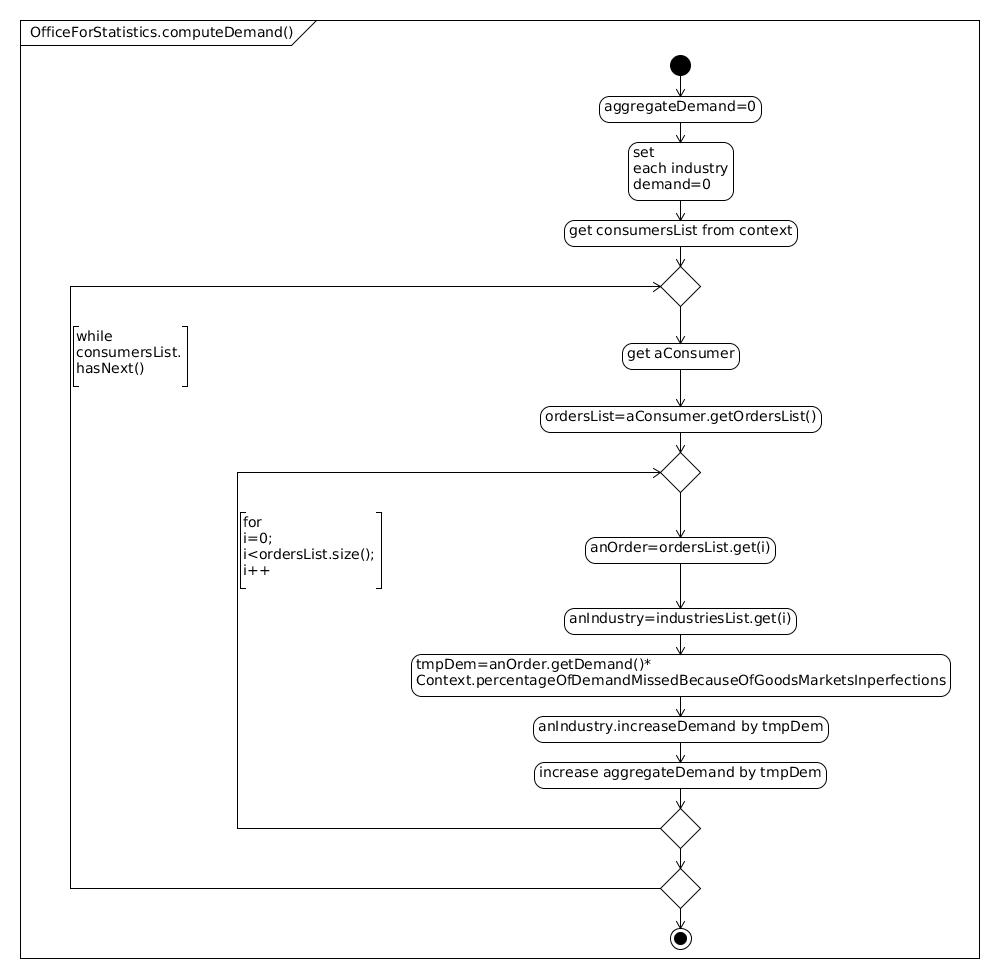
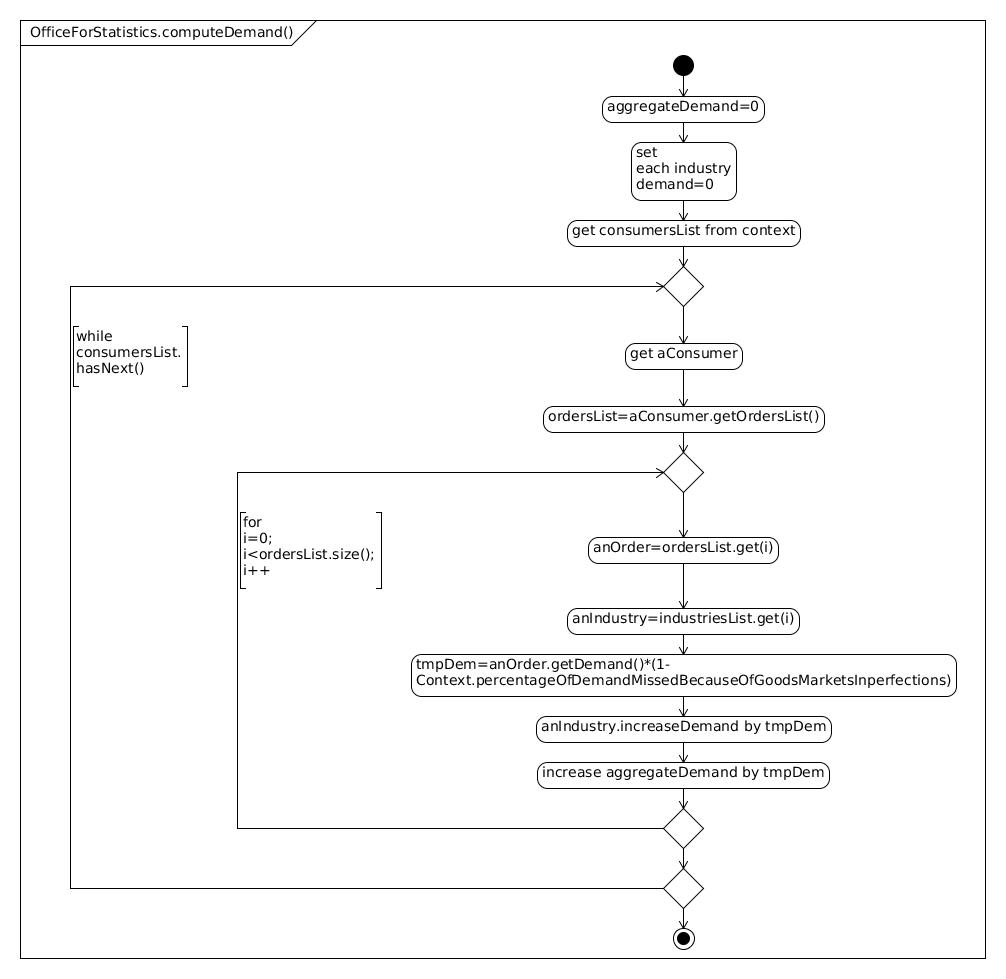
aggiunto metodo Consume.updateBankAccountAccordingToEffectiveConsumption

diff --git a/documentation/index.html b/documentation/index.html
@@ -77,9 +77,14 @@
 	<td>Compute the <b>effective demand</b> for each type of product (the industry desired demand) and the aggregate desired demand</td>
 </tr>
 <tr>
-	<td></td> 
-	<td><a href="allocateDemand.html">allocateDemand</a></td>
-	<td>Each industry allocates <b>effective demand</b> to firms. Firms will use this figure to compute the economic result.</td>
+	<td> </td>
+	<td><a href="allocateDemand.html">allocateDemand</a> </td>
+	<td>Each industry allocates <b>effective demand</b> to firms. Firms will use this figure to set production inputs for the next period. </td>
+</tr>
+<tr>
+	<td><b>Consumers</b></td> 
+	<td><a href="updateBankAccountAccordingToEffectiveConsumption.html">updateBankAccountAccordingToEffectiveConsumption</a></td>
+	<td>Each consumers withraw what needed or deposits what saved.</td>
 </tr>
 <tr>
 	<td><b>Firms</b> </td>

diff --git a/src/sfcabm/Consumer.java b/src/sfcabm/Consumer.java
@@ -54,7 +54,7 @@ public class Consumer {
 	 boolean InvestEducation;
 	 double studentSpending;
 
-	 double consumption,desiredDemand;
+	 double consumption,desiredDemand,financialResourcesInBankAccounts;
 	 
 	repast.simphony.context.Context<Object> myContext;
 	IndexedIterable<Object> firmsList,banksList;
@@ -198,7 +198,7 @@ public void stepState(){
 	public void payBackBankDebt(){
 		double amountOfThisBankAccount,resourcesAvailableToRefund;
 		double totalAmountToRefund=0;
-		double financialResourcesInBankAccounts=0;
+		financialResourcesInBankAccounts=0;
 		for(int i=0;i<bankAccountsList.size();i++){
 			aBankAccount=(BankAccount)bankAccountsList.get(i);
 			amountOfThisBankAccount=aBankAccount.getAccount();
@@ -298,7 +298,7 @@ public void stepState(){
 	
 	private void stepWorkerConsumption() {
 		double preferenceParameter=RandomHelper.nextDoubleFromTo(0.5,1.5);
-		double financialResourcesInBankAccounts=0;
+		financialResourcesInBankAccounts=0;
 		double amountOfThisBankAccount,amountOfBestBankAccount,amountOfWorstBankAccount;
 		int positionOfBestAccount,positionOfWorstAccount;
 		demandsList = new ArrayList<AProductDemand>();
@@ -405,7 +405,7 @@ public void stepWorkerState() {
 	private void stepStudentConsumption() {
 
 		double preferenceParameter=RandomHelper.nextDoubleFromTo(0.5,1.5);
-		double financialResourcesInBankAccounts=0;
+		financialResourcesInBankAccounts=0;
 		double amountOfThisBankAccount,amountOfBestBankAccount,amountOfWorstBankAccount;
 		int positionOfBestAccount,positionOfWorstAccount;
 		demandsList = new ArrayList<AProductDemand>();
@@ -546,6 +546,44 @@ public void stepWorkerState() {
 				aProductDemand.adjustDemand(identity,allowedDemand/desiredDemand);
 			}
 		}
+
+		public void updateBankAccountAccordingToEffectiveConsumption(){
+			consumption=0;
+			for(int j=0;j<demandsList.size();j++){
+				aProductDemand=demandsList.get(j);
+				consumption+=aProductDemand.getDemand();
+			}
+
+					System.out.println("      consumption "+consumption+" disposableIncome "+disposableIncome);
+			if(disposableIncome>=consumption){
+				worstBankAccount.receiveDeposits(disposableIncome-consumption);
+			}
+			else{
+				consumption+=-disposableIncome;
+				for(int i=0;i<bankAccountsList.size();i++){
+					aBankAccount=(BankAccount)bankAccountsList.get(i);
+					double tmpAccount=aBankAccount.getAccount();
+					if(tmpAccount>=0){
+						if(tmpAccount<consumption){
+							consumption+=-tmpAccount;
+							aBankAccount.setAccount(0);
+						}
+						else{
+							aBankAccount.setAccount(tmpAccount-consumption);
+							consumption=0;
+						}
+					}
+				}
+				if(consumption>0){
+					System.out.println("      consumption "+consumption+" allowedCredit "+bestBankAccount.getAllowedCredit());
+					bestBankAccount.setAccount(bestBankAccount.getAllowedCredit());
+				}
+			}
+
+		}
+
+
+
 
 		public void adjustConsumtionToMatchDemandAndSupply(int rankPosition, double multiplier){
 			aProductDemand=demandsList.get(rankPosition);

diff --git a/src/sfcabm/OfficeForStatistics.java b/src/sfcabm/OfficeForStatistics.java
@@ -77,6 +77,22 @@ public class OfficeForStatistics{
 		catch(ClassNotFoundException e){
 			System.out.println("Class not found");
 		}
+//remove firms with 0 production
+
+		contextIterator=myContext.iterator();
+		while(contextIterator.hasNext()){
+			anObj=contextIterator.next();
+			if(anObj instanceof Firm){
+				aFirm=(Firm)anObj;
+				if(aFirm.getProduction()>0){
+				}
+				else{
+					System.out.println("     firm removed because producing "+aFirm.getProduction());
+					contextIterator.remove();
+				}
+			}
+		}
+
 //compute 1) aggregate production 2) number of firms in each industry and 3) production for each industry
 		aggregateProduction=0;
 		for(int i=0;i<firmsList.size();i++){
@@ -197,7 +213,7 @@ public class OfficeForStatistics{
 			for(int j=0;j<anOrderList.size();j++){
 				anOrder=(AProductDemand)anOrderList.get(j);
 				anIndustry=industriesList.get(j);
-				double tmpDemand=anOrder.getDemand()*Context.percentageOfDemandMissedBecauseOfGoodsMarketsInperfections;
+				double tmpDemand=anOrder.getDemand()*(1-Context.percentageOfDemandMissedBecauseOfGoodsMarketsInperfections);
 				anIndustry.increaseDemand(tmpDemand);
 				aggregateDemand=aggregateDemand+tmpDemand;
 			}
@@ -205,7 +221,7 @@ public class OfficeForStatistics{
 		}
 
 		if(Context.verboseFlag){
-			System.out.println("OFFICE FOR STATISTICS: COMPUTE DEMAND ");
+			System.out.println("OFFICE FOR STATISTICS: COMPUTE DESIRED DEMAND ");
 		}
 			industriesListIterator=industriesList.iterator();
 			while(industriesListIterator.hasNext()){
@@ -221,6 +237,9 @@ public class OfficeForStatistics{
 	}
 
 	public void allocateDesiredDemand(){
+		if(Context.verboseFlag){
+			System.out.println("OFFICE FOR STATISTICS: ALLOCATE DESIRED DEMAND ");
+		}
 		statAction=statActionFactory.createActionForIterable(industriesList,"allocateDesiredDemand",false);
 		statAction.execute();
 	}
@@ -269,6 +288,9 @@ public class OfficeForStatistics{
 	}
 
 	public void allocateDemand(){
+		if(Context.verboseFlag){
+			System.out.println("OFFICE FOR STATISTICS: ALLOCATE DEMAND ");
+		}
 		statAction=statActionFactory.createActionForIterable(industriesList,"allocateDemand",false);
 		statAction.execute();
 	}

diff --git a/src/sfcabm/BankAccount.java b/src/sfcabm/BankAccount.java
@@ -53,8 +53,6 @@ public class BankAccount{
 	}
 	public void setAccount(double ac){
 		account=ac;
-		demandedCredit=0;
-		allowedCredit=0;
 		if(Context.verboseFlag){
 			System.out.println("     bank account "+account+" demanded credit "+demandedCredit+" "+ownerType);
 		}
@@ -79,6 +77,17 @@ public class BankAccount{
 		if(Context.verboseFlag){
 			System.out.println("     bank account "+account+" demanded credit "+demandedCredit+" allowed "+allowedCredit+" "+ownerType);
 		}
+	}
+
+	public void receiveDeposits(double dep){
+		account+=dep;
+	}
+
+	public void resetDemandedCredit(){
+		demandedCredit=0;
+	}
+	public void resetAllowedCredit(){
+		allowedCredit=0;
 	}
 
 }

diff --git a/src/sfcabm/Context.java b/src/sfcabm/Context.java
@@ -168,6 +168,8 @@ System.out.println("FIRMS: HIRE");
 				aFirm.setInitialWorkers();
 			}
 
+
+
 			if(verboseFlag){
 System.out.println("CONSUMERS SETUP BANK ACCOUNTS");
 		}
@@ -296,6 +298,13 @@ System.out.println("CONSUMERS ADJUST CONSUMPTION ACCORDING TO EXTENDED CREDIT");
 
 			officeForStatistics.computeDemand();
 			officeForStatistics.allocateDemand();
+
+//			if(verboseFlag){
+System.out.println("CONSUMERS UNPDATE BANK ACCOUNT ACCORDING TO EFFECTIVE CONSUMPTION");
+//		}
+			contextAction=contextActionFactory.createActionForIterable(consumersList,"updateBankAccountAccordingToEffectiveConsumption",false);
+			contextAction.execute();
+
 
 	
 //			if(verboseFlag){

diff --git a/src/sfcabm/Bank.java b/src/sfcabm/Bank.java
@@ -142,6 +142,11 @@ public class Bank {
 	public void resetDemandedAndAllowedCredit(){
 		demandedCredit=0;
 		allowedCredit=0;
+		for(int i=0;i<accountsList.size();i++){
+			aBankAccount=(BankAccount)accountsList.get(i);
+			aBankAccount.resetDemandedCredit();
+			aBankAccount.resetAllowedCredit();
+		}
 	}
 
 
